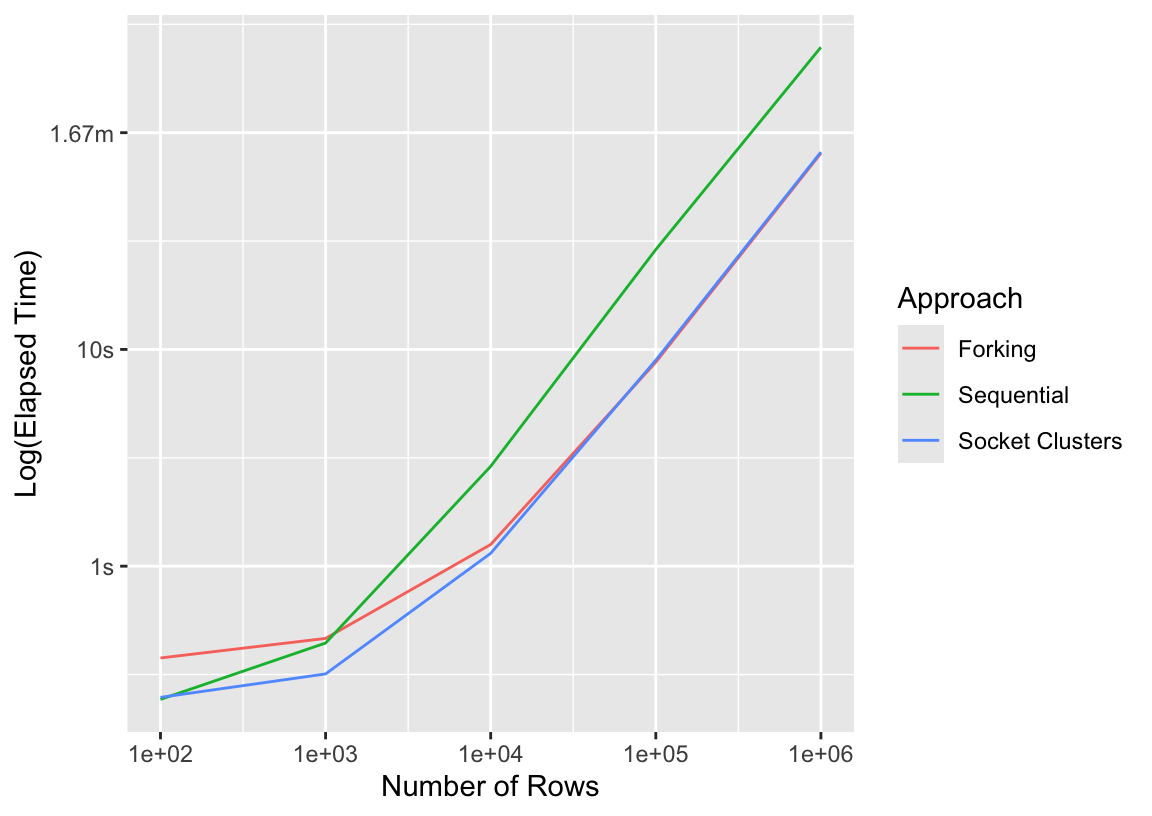
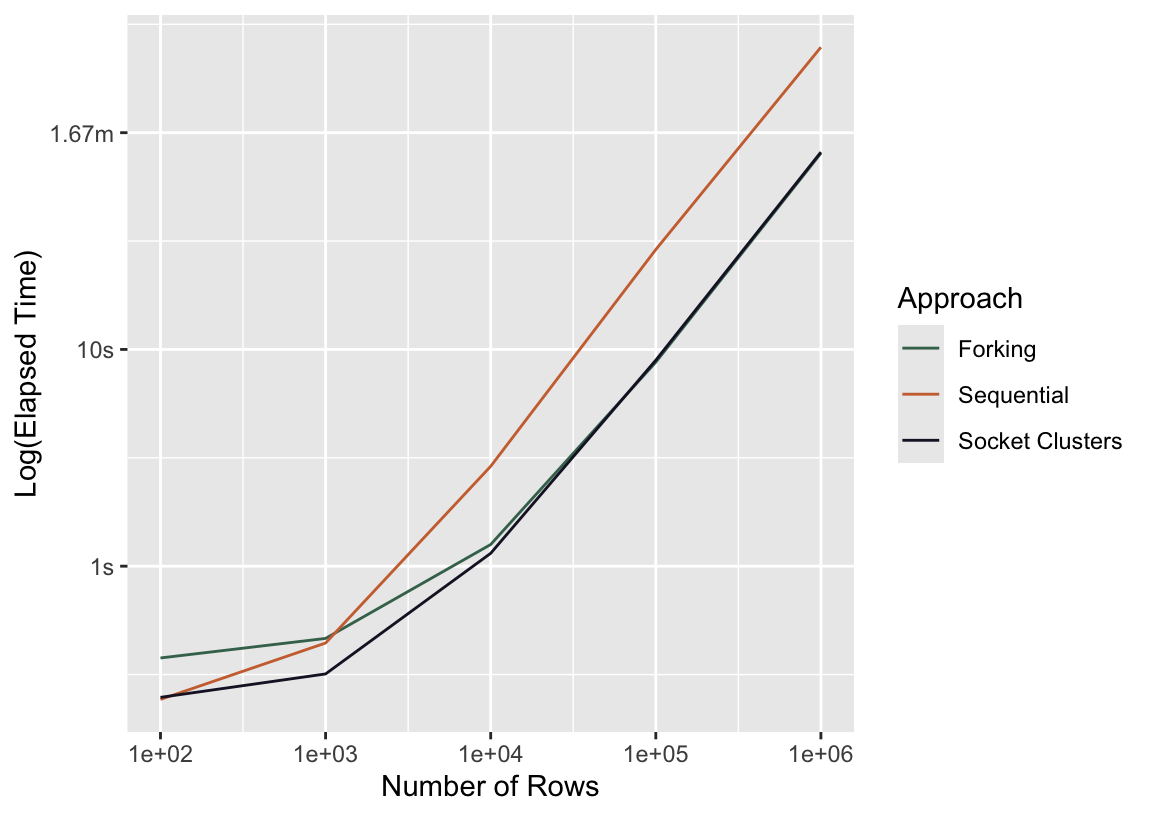
use main colors in common `theme_set()` (closes #3)

diff --git a/docs/02-models.html b/docs/02-models.html
@@ -287,16 +287,16 @@ gtag('config', 'G-C5VQ0DLJJW', { 'anonymize_ip': true});
 <pre><code># A tibble: 100 × 18
    class   two_factor_1 two_factor_2 non_linear_1 non_linear_2 non_linear_3
    &lt;fct&gt;   &lt;fct&gt;               &lt;dbl&gt; &lt;fct&gt;               &lt;dbl&gt;        &lt;dbl&gt;
- 1 class_2 level_1             0.913 level_1            0.226         0.927
- 2 class_2 level_2            -0.256 level_2            0.606         0.120
- 3 class_1 level_1             3.12  level_1            0.942         0.416
- 4 class_1 level_3            -0.544 level_1            0.901         0.211
- 5 class_1 level_3            -1.02  level_2            0.379         0.803
- 6 class_1 level_4            -2.21  level_1            0.603         0.595
- 7 class_1 level_3            -0.237 level_1            0.132         0.657
- 8 class_2 level_2             0.967 level_2            0.223         0.158
- 9 class_1 level_1             2.11  level_1            0.356         0.964
-10 class_2 level_2            -0.103 level_1            0.0463        0.595
+ 1 class_2 level_1             0.643 level_2             0.219       0.285 
+ 2 class_2 level_3             0.182 level_3             0.324       0.504 
+ 3 class_2 level_1             1.29  level_4             0.195       0.267 
+ 4 class_2 level_2            -0.577 level_4             0.407       0.345 
+ 5 class_1 level_4            -3.37  level_3             0.429       0.747 
+ 6 class_1 level_1             1.65  level_3             0.990       0.296 
+ 7 class_1 level_1             2.00  level_1             0.657       0.218 
+ 8 class_2 level_1            -1.04  level_4             0.517       0.221 
+ 9 class_1 level_1             3.03  level_3             0.683       0.0802
+10 class_1 level_3            -0.475 level_3             0.594       0.455 
 # ℹ 90 more rows
 # ℹ 12 more variables: linear_01 &lt;dbl&gt;, linear_02 &lt;dbl&gt;, linear_03 &lt;dbl&gt;,
 #   linear_04 &lt;dbl&gt;, linear_05 &lt;dbl&gt;, linear_06 &lt;dbl&gt;, linear_07 &lt;dbl&gt;,
@@ -315,24 +315,24 @@ Call:  stats::glm(formula = class ~ ., family = stats::binomial, data = data)
 
 Coefficients:
         (Intercept)  two_factor_1level_2  two_factor_1level_3  
-           1370.020             -325.017             -980.170  
+            5.11038             -2.02106             -5.01914  
 two_factor_1level_4         two_factor_2  non_linear_1level_2  
-          -2043.162             -515.706              278.952  
+          -10.54529             -2.86317             -0.97449  
+non_linear_1level_3  non_linear_1level_4  non_linear_1level_5  
+           -1.19212              0.43490              2.34267  
        non_linear_2         non_linear_3            linear_01  
-           -486.362             -699.630              -64.256  
+           -1.91699             -1.76264              0.63196  
           linear_02            linear_03            linear_04  
-           -124.288             -169.539               -0.955  
+           -0.53112             -0.20955              0.12159  
           linear_05            linear_06            linear_07  
-             60.951               33.414              -43.051  
-          linear_08            linear_09     linear_10level_2  
-             82.319              -39.286              -74.515  
-   linear_11level_2     linear_11level_3  
-            360.718              122.837  
- [ reached getOption("max.print") -- omitted 2 entries ]
+           -0.10563             -0.88619              0.61433  
+          linear_08            linear_09  
+            0.99386             -0.03596  
+ [ reached getOption("max.print") -- omitted 4 entries ]
 
-Degrees of Freedom: 99 Total (i.e. Null);  78 Residual
-Null Deviance:      133.7 
-Residual Deviance: 1.503e-07    AIC: 44</code></pre>
+Degrees of Freedom: 99 Total (i.e. Null);  76 Residual
+Null Deviance:      138.5 
+Residual Deviance: 61.21    AIC: 109.2</code></pre>
 </div>
 </div>
 <p>The default engine for a logistic regression in tidymodels is <code>stats::glm()</code>. So, in the style of the above graphic, this code:</p>
@@ -353,7 +353,7 @@ Residual Deviance: 1.503e-07    AIC: 44</code></pre>
 <pre><code># A tibble: 1 × 2
   expression   median
 * &lt;bch:expr&gt; &lt;bch:tm&gt;
-1 fit          3.96ms</code></pre>
+1 fit          1.66ms</code></pre>
 </div>
 </div>
 <p>About a millisecond. That means that, if the tidymodels overhead is one second, we’ve made this model fit a thousand times slower!</p>
@@ -366,7 +366,7 @@ Residual Deviance: 1.503e-07    AIC: 44</code></pre>
 <span id="cb7-5"><a href="#cb7-5" aria-hidden="true" tabindex="-1"></a>    <span class="at">check =</span> <span class="cn">FALSE</span></span>
 <span id="cb7-6"><a href="#cb7-6" aria-hidden="true" tabindex="-1"></a>  )</span></code><button title="Copy to Clipboard" class="code-copy-button"><i class="bi"></i></button></pre></div>
 </div>
-<p>Remember that the first expression calls the second one, so the increase in time from the second to the first is the “overhead.” In this case, it’s 1.2362321 milliseconds, or 23.9% of the total elapsed time.</p>
+<p>Remember that the first expression calls the second one, so the increase in time from the second to the first is the “overhead.” In this case, it’s 0.8079461 milliseconds, or 32.8% of the total elapsed time.</p>
 <p>So, to fit a boosted tree model on 1,000,000 data points, step <strong>2)</strong> might take a few seconds. Steps <strong>1)</strong> and <strong>3)</strong> don’t care about the size of the data, so they still take a few thousandths of a second. No biggie—the overhead is negligible. Let’s quickly back that up by fitting boosted tree models on simulated datasets of varying sizes, once with the XGBoost interface and once with parsnip’s wrapper around it.</p>
 <div class="cell">
 <div class="cell-output-display">

diff --git a/docs/03-parallelism.html b/docs/03-parallelism.html
@@ -457,7 +457,7 @@ Figure&nbsp;3.2
 <div class="sourceCode cell-code" id="cb6"><pre class="sourceCode r code-with-copy"><code class="sourceCode r"><span id="cb6-1"><a href="#cb6-1" aria-hidden="true" tabindex="-1"></a><span class="fu">ggplot</span>(press_seq) <span class="sc">+</span></span>
 <span id="cb6-2"><a href="#cb6-2" aria-hidden="true" tabindex="-1"></a>  <span class="fu">aes</span>(<span class="at">x =</span> n_rows, <span class="at">y =</span> median) <span class="sc">+</span></span>
 <span id="cb6-3"><a href="#cb6-3" aria-hidden="true" tabindex="-1"></a>  <span class="fu">scale_x_log10</span>() <span class="sc">+</span></span>
-<span id="cb6-4"><a href="#cb6-4" aria-hidden="true" tabindex="-1"></a>  <span class="fu">geom_line</span>() <span class="sc">+</span></span>
+<span id="cb6-4"><a href="#cb6-4" aria-hidden="true" tabindex="-1"></a>  <span class="fu">geom_line</span>(<span class="at">color =</span> <span class="st">"#cd6f3d"</span>) <span class="sc">+</span></span>
 <span id="cb6-5"><a href="#cb6-5" aria-hidden="true" tabindex="-1"></a>  <span class="fu">labs</span>(<span class="at">y =</span> <span class="st">"Log(Elapsed Time)"</span>, <span class="at">x =</span> <span class="st">"Number of Rows"</span>)</span></code><button title="Copy to Clipboard" class="code-copy-button"><i class="bi"></i></button></pre></div>
 <div class="cell-output-display">
 <div>
